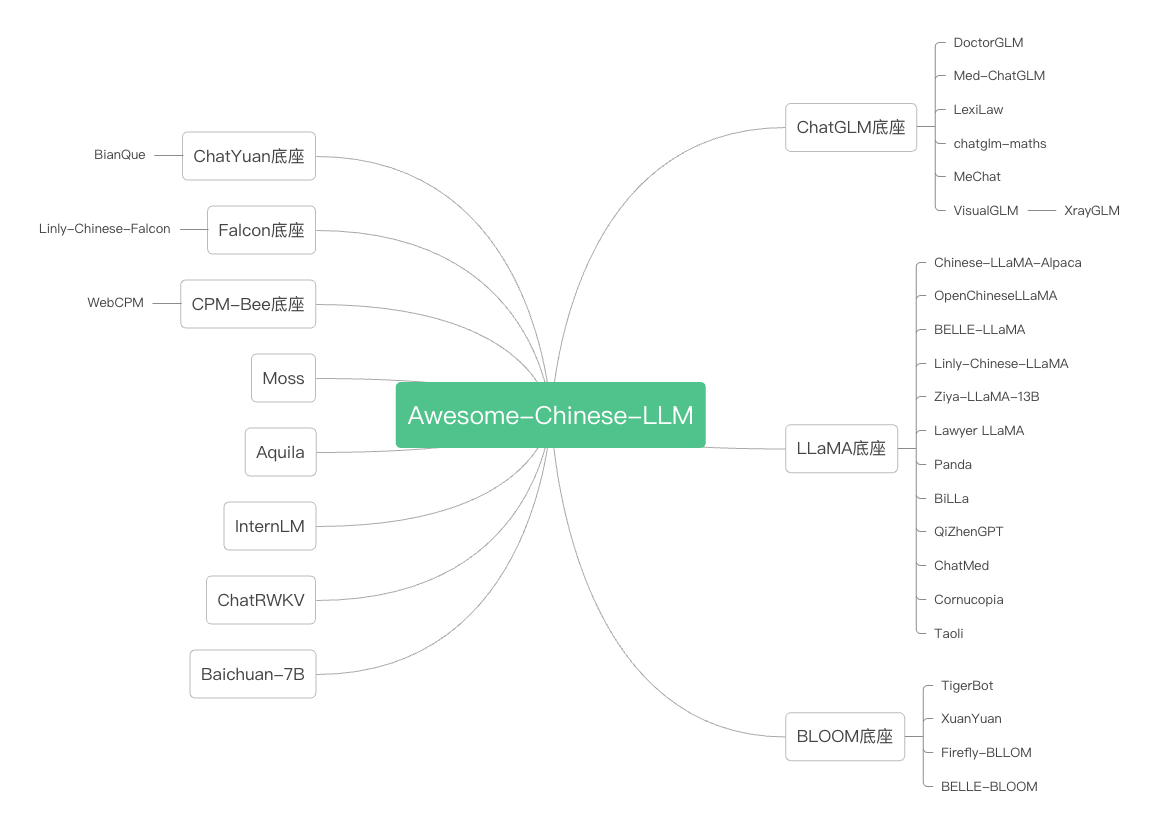
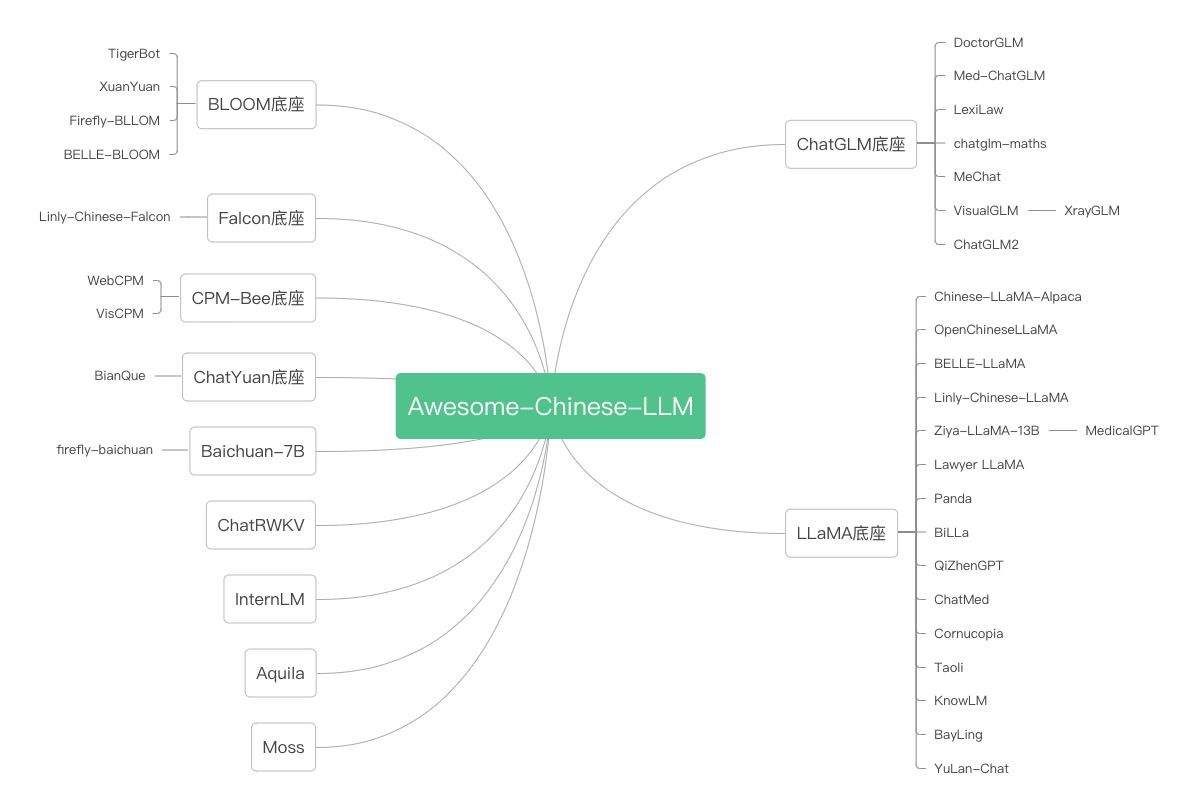
update taxonomy

diff --git a/README.md b/README.md
@@ -17,7 +17,7 @@ Awesome-Chinese-LLM
 </p>
 
 
-自ChatGPT为代表的大语言模型（Large Language Model, LLM）出现以后，由于其惊人的类通用人工智能（AGI）的能力，掀起了新一轮自然语言处理领域的研究和应用的浪潮。尤其是以ChatGLM、LLaMA等平民玩家都能跑起来的较小规模的LLM开源之后，业界涌现了非常多基于LLM的二次微调或应用的案例。本项目旨在收集和梳理中文LLM相关的开源模型、应用、数据集及教程等资料。
+自ChatGPT为代表的大语言模型（Large Language Model, LLM）出现以后，由于其惊人的类通用人工智能（AGI）的能力，掀起了新一轮自然语言处理领域的研究和应用的浪潮。尤其是以ChatGLM、LLaMA等平民玩家都能跑起来的较小规模的LLM开源之后，业界涌现了非常多基于LLM的二次微调或应用的案例。本项目旨在收集和梳理中文LLM相关的开源模型、应用、数据集及教程等资料，目前收录的资源已达100+个！
 
 如果本项目能给您带来一点点帮助，麻烦点个⭐吧～
 
@@ -29,36 +29,33 @@ Awesome-Chinese-LLM
 
 ## 目录
 - [目录](#目录)
-  - [1. Model](#1-model)
-  - [2. Application](#2-application)
+  - [1. 模型](#1-模型)
+    - [1.1 文本LLM模型](#11-文本llm模型)
+    - [1.2 多模态LLM模型](#12-多模态llm模型)
+  - [2. 应用](#2-应用)
     - [2.1 垂直领域微调](#21-垂直领域微调)
       - [医疗](#医疗)
       - [法律](#法律)
       - [金融](#金融)
       - [教育](#教育)
       - [数学](#数学)
-      - [文化](#文化)
     - [2.2 LangChain应用](#22-langchain应用)
-    - [2.3 外部挂件应用](#23-外部挂件应用)
-  - [3. Dataset](#3-dataset)
-  - [4. Evaluation](#4-evaluation)
-  - [5. Tutorial](#5-tutorial)
-  - [6. Related Repository](#6-related-repository)
-- [作者](#作者)
+    - [2.3 其他应用](#23-其他应用)
+  - [3. 数据集](#3-数据集)
+  - [4. LLM评测](#4-llm评测)
+  - [5. LLM教程](#5-llm教程)
+  - [6. 相关仓库](#6-相关仓库)
 - [Star History](#star-history)
 
 
-###  1. <a name='Model'></a>Model
+###  1. <a name='模型'></a>模型
+
+#### 1.1 文本LLM模型
 
 * ChatGLM：
   * 地址：https://github.com/THUDM/ChatGLM-6B
 ![](https://img.shields.io/github/stars/THUDM/ChatGLM-6B.svg)
   * 简介：中文领域效果最好的开源底座模型之一，针对中文问答和对话进行了优化。经过约 1T 标识符的中英双语训练，辅以监督微调、反馈自助、人类反馈强化学习等技术的加持
-
-* VisualGLM-6B
-  * 地址：https://github.com/THUDM/VisualGLM-6B
-![](https://img.shields.io/github/stars/THUDM/VisualGLM-6B.svg)
-  * 简介：一个开源的，支持图像、中文和英文的多模态对话语言模型，语言模型基于 ChatGLM-6B，具有 62 亿参数；图像部分通过训练 BLIP2-Qformer 构建起视觉模型与语言模型的桥梁，整体模型共78亿参数。依靠来自于 CogView 数据集的30M高质量中文图文对，与300M经过筛选的英文图文对进行预训练。
 
 * ChatGLM2-6B
   * 地址：https://github.com/THUDM/ChatGLM2-6B
@@ -109,6 +106,11 @@ Awesome-Chinese-LLM
   * 地址：https://github.com/CVI-SZU/Linly
 ![](https://img.shields.io/github/stars/CVI-SZU/Linly.svg)
   * 简介：提供中文对话模型 Linly-ChatFlow 、中文基础模型 Linly-Chinese-LLaMA 及其训练数据。 中文基础模型以 LLaMA 为底座，利用中文和中英平行增量预训练。项目汇总了目前公开的多语言指令数据，对中文模型进行了大规模指令跟随训练，实现了 Linly-ChatFlow 对话模型。
+
+* Firefly：
+  * 地址：https://github.com/yangjianxin1/Firefly
+![](https://img.shields.io/github/stars/yangjianxin1/Firefly.svg)
+  * 简介：Firefly(流萤) 是一个开源的中文大语言模型项目，开源包括数据、微调代码、多个基于Bloom、baichuan等微调好的模型等；支持全量参数指令微调、QLoRA低成本高效指令微调、LoRA指令微调；支持绝大部分主流的开源大模型，如百川baichuan、Ziya、Bloom、LLaMA等。持lora与base model进行权重合并，推理更便捷。
 
 * ChatYuan
   * 地址：https://github.com/clue-ai/ChatYuan
@@ -165,7 +167,22 @@ Awesome-Chinese-LLM
 ![](https://img.shields.io/github/stars/RUC-GSAI/YuLan-Chat.svg)
   * 简介：YuLan-Chat是中国人民大学GSAI研究人员开发的基于聊天的大语言模型。它是在LLaMA的基础上微调开发的，具有高质量的英文和中文指令。 YuLan-Chat可以与用户聊天，很好地遵循英文或中文指令，并且可以在量化后部署在GPU（A800-80G或RTX3090）上。
 
-###  2. <a name='Application'></a>Application
+
+#### 1.2 多模态LLM模型
+
+* VisualGLM-6B
+  * 地址：https://github.com/THUDM/VisualGLM-6B
+![](https://img.shields.io/github/stars/THUDM/VisualGLM-6B.svg)
+  * 简介：一个开源的，支持图像、中文和英文的多模态对话语言模型，语言模型基于 ChatGLM-6B，具有 62 亿参数；图像部分通过训练 BLIP2-Qformer 构建起视觉模型与语言模型的桥梁，整体模型共78亿参数。依靠来自于 CogView 数据集的30M高质量中文图文对，与300M经过筛选的英文图文对进行预训练。
+
+* VisCPM
+  * 地址：https://github.com/OpenBMB/VisCPM
+![](https://img.shields.io/github/stars/OpenBMB/VisCPM.svg)
+  * 简介：一个开源的多模态大模型系列，支持中英双语的多模态对话能力（VisCPM-Chat模型）和文到图生成能力（VisCPM-Paint模型）。VisCPM基于百亿参数量语言大模型CPM-Bee（10B）训练，融合视觉编码器（Q-Former）和视觉解码器（Diffusion-UNet）以支持视觉信号的输入和输出。得益于CPM-Bee基座优秀的双语能力，VisCPM可以仅通过英文多模态数据预训练，泛化实现优秀的中文多模态能力。
+
+
+
+###  2. <a name='应用'></a>应用
 
 #### 2.1 垂直领域微调
 
@@ -269,13 +286,6 @@ Awesome-Chinese-LLM
 ![](https://img.shields.io/github/stars/yongzhuo/chatglm-maths.svg)
   * 简介：基于chatglm-6b微调/LORA/PPO/推理的数学题解题大模型, 样本为自动生成的整数/小数加减乘除运算, 可gpu/cpu部署，开源了训练数据集等。
 
-##### 文化
-
-* Firefly：
-  * 地址：https://github.com/yangjianxin1/Firefly
-![](https://img.shields.io/github/stars/yangjianxin1/Firefly.svg)
-  * 简介：中文对话式大语言模型，构造了许多与中华文化相关的数据，以提升模型这方面的表现，如对联、作诗、文言文翻译、散文、金庸小说等。
-
 #### 2.2 LangChain应用
 
 * Chinese-LangChain：
@@ -288,7 +298,7 @@ Awesome-Chinese-LLM
 ![](https://img.shields.io/github/stars/imClumsyPanda/langchain-ChatGLM.svg)
   * 简介：基于本地知识库的 ChatGLM 等大语言模型应用实现
 
-#### 2.3 外部挂件应用
+#### 2.3 其他应用
 
 * wenda：
   * 地址：https://github.com/wenda-LLM/wenda
@@ -325,7 +335,7 @@ Awesome-Chinese-LLM
 ![](https://img.shields.io/github/stars/ypwhs/CreativeChatGLM.svg)
   * 简介：可以使用修订和续写的功能来生成创意内容，可以使用“续写”按钮帮 ChatGLM 想一个开头，并让它继续生成更多的内容，你可以使用“修订”按钮修改最后一句 ChatGLM 的回复。
 
-###  3. <a name='Dataset'></a>Dataset
+###  3. <a name='数据集'></a>数据集
 
 * RefGPT：基于RefGPT生成大量真实和定制的对话数据集
   * 地址：https://github.com/ziliwangnlp/RefGPT
@@ -361,7 +371,7 @@ Awesome-Chinese-LLM
 
 * BELLE-data-1.5M：
   * 地址：https://github.com/LianjiaTech/BELLE/tree/main/data/1.5M
-![](https://img.shields.io/github/stars/LianjiaTech/BELLE/tree/main/data/1.5M.svg)
+![](https://img.shields.io/github/stars/LianjiaTech/BELLE.svg)
   * 数据集说明：通过self-instruct生成，使用了中文种子任务，以及openai的text-davinci-003接口,涉及175个种子任务
 
 * Chinese Scientific Literature Dataset：
@@ -408,7 +418,7 @@ Awesome-Chinese-LLM
 ![](https://img.shields.io/github/stars/qiuhuachuan/smile.svg)
   * 数据集说明：数据集通过ChatGPT改写真实的心理互助 QA为多轮的心理健康支持多轮对话（single-turn to multi-turn inclusive language expansion via ChatGPT），该数据集含有56k个多轮对话，其对话主题、词汇和篇章语义更加丰富多样，更加符合在长程多轮对话的应用场景。
 
-###  4. <a name='Evaluation'></a>Evaluation
+###  4. <a name='LLM评测'></a>LLM评测
 
 * FlagEval （天秤）大模型评测体系及开放平台
   * 地址：https://github.com/FlagOpen/FlagEval
@@ -465,7 +475,7 @@ Awesome-Chinese-LLM
   * 简介：为推动LLM在医疗领域的发展和落地，由华东师范大学联合阿里巴巴天池平台，复旦大学附属华山医院，东北大学，哈尔滨工业大学（深圳），鹏城实验室与同济大学推出PromptCBLUE评测基准, 将16种不同的医疗场景NLP任务全部转化为基于提示的语言生成任务,形成首个中文医疗场景的LLM评测基准。
 
 
-###  5. <a name='Tutorial'></a>Tutorial
+###  5. <a name='LLM教程'></a>LLM教程
 
 * 面向开发者的 LLM 入门课程：
   * 地址：https://github.com/datawhalechina/prompt-engineering-for-developers
@@ -510,7 +520,7 @@ Awesome-Chinese-LLM
 ![](https://img.shields.io/github/stars/Mooler0410/LLMsPracticalGuide.svg)
   * 简介：该项目提供了关于LLM的一系列实用指南与资源精选列表（包括LLM发展历程、示例、论文等）。
  
- ###  6. <a name='Related Repository'></a>Related Repository
+ ###  6. <a name='相关仓库'></a>相关仓库
  
 * FindTheChatGPTer：
   * 地址：https://github.com/chenking2020/FindTheChatGPTer
@@ -567,10 +577,6 @@ Awesome-Chinese-LLM
 ![](https://img.shields.io/github/stars/wgwang/LLMs-In-China.svg)
   * 简介：该项目旨在记录中国大模型发展情况，同时持续深度分析开源开放的大模型以及数据集的情况。
 
-## 作者
-
-* [HqWu-HITCS](https://github.com/HqWu-HITCS)
-* [thinkwee](https://github.com/thinkwee)
 
 ## Star History
 
